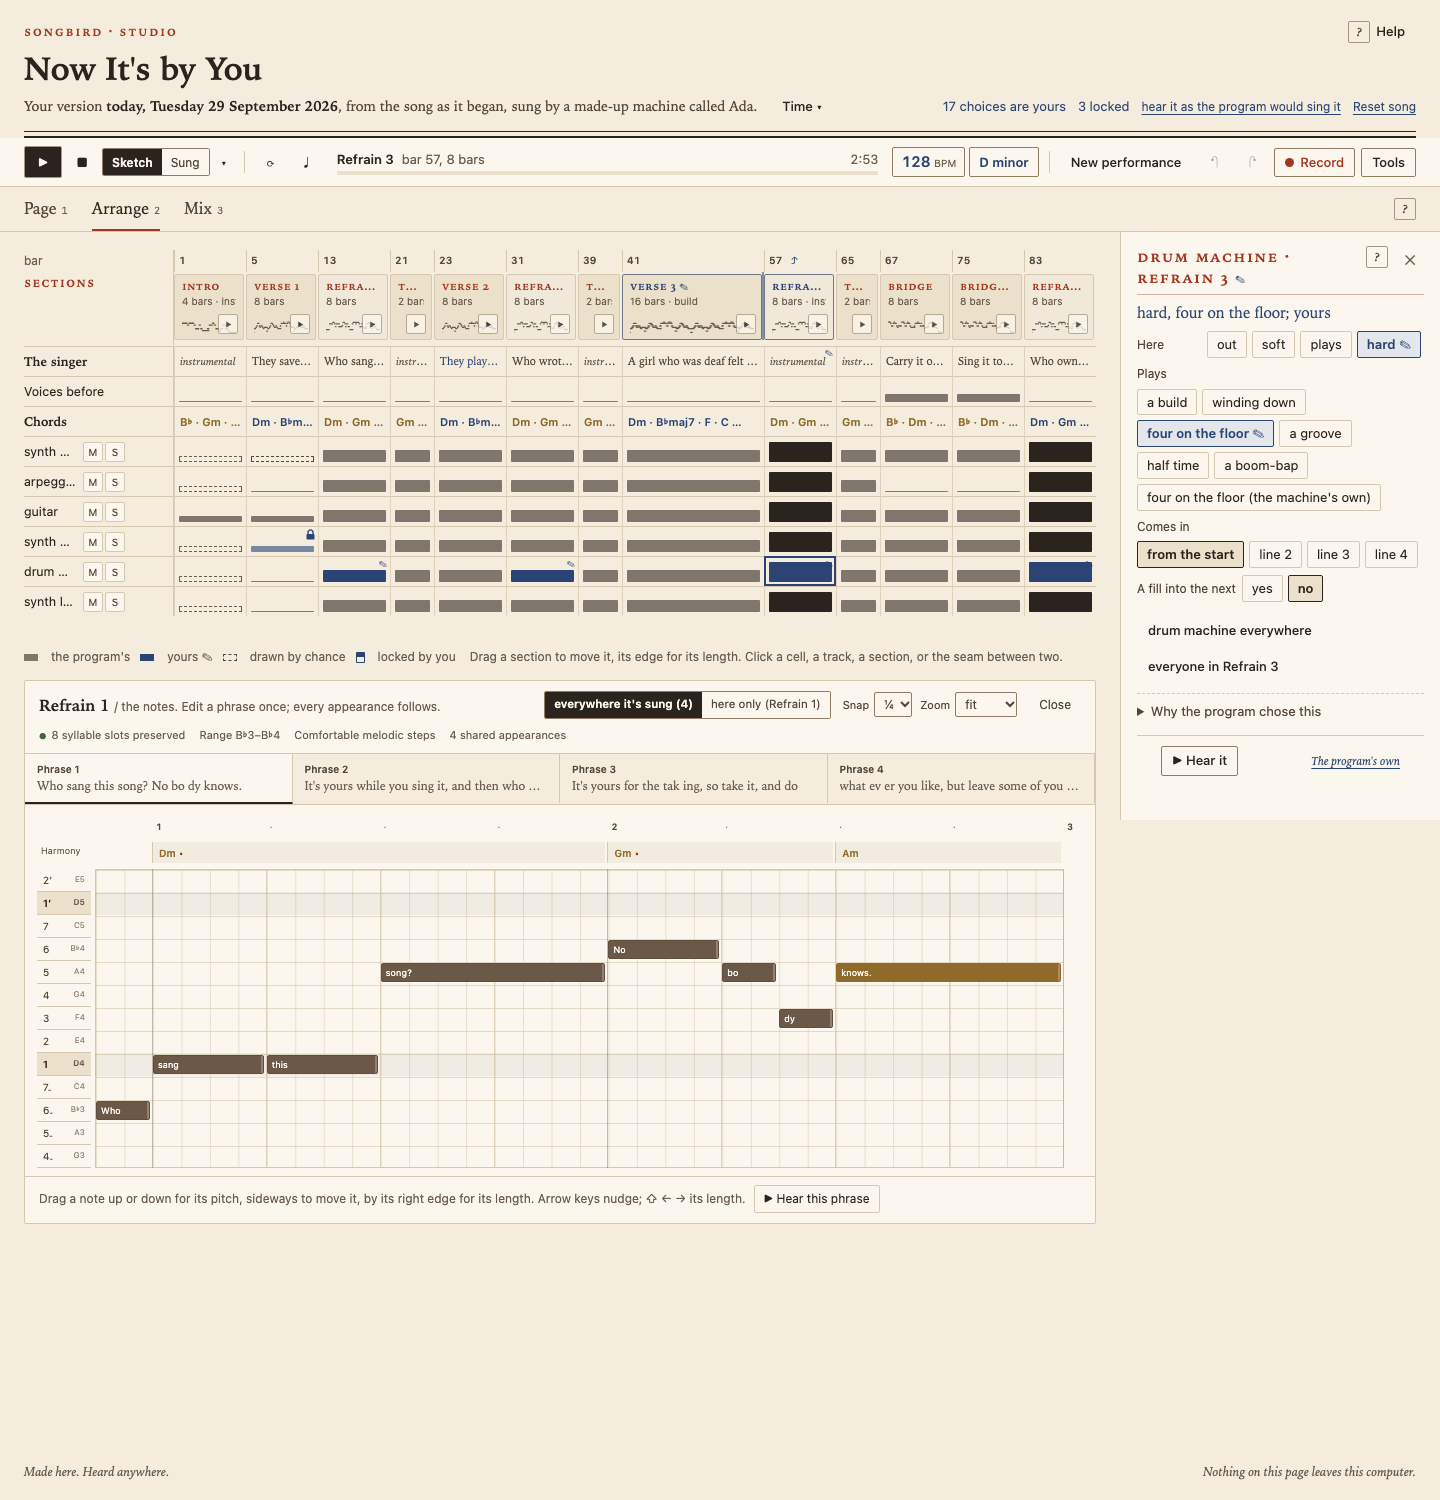
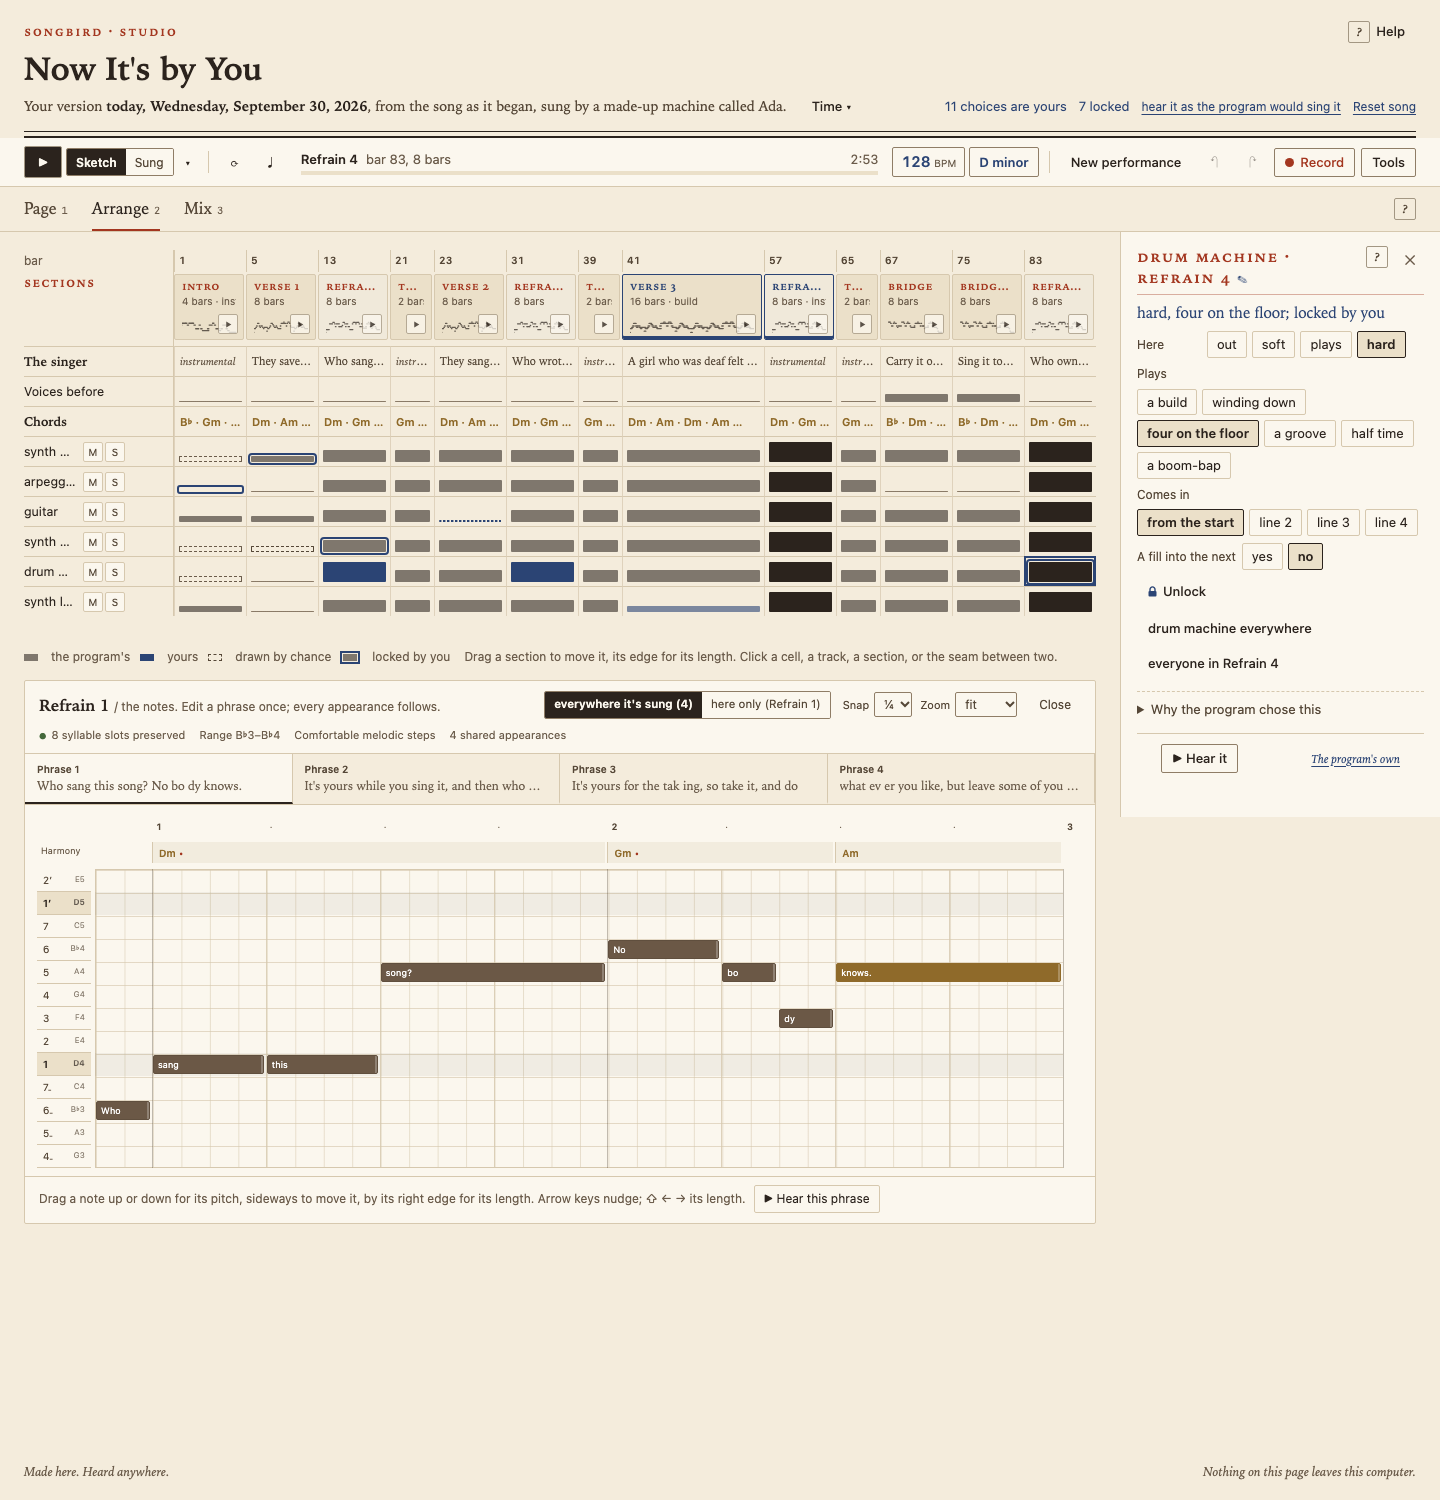
docs/design/studio-built-*.png again after the artist's list (one play button, the cells without marks, the date, a section's two ways in), and the list in docs/STUDIO-REDESIGN.md

diff --git a/docs/STUDIO-REDESIGN.md b/docs/STUDIO-REDESIGN.md
@@ -689,3 +689,28 @@ the stars out of a played section's words; the pan's words follow the drag.
 4. **Sketch or Sung follows the selection** (the sketch for a section, a phrase, a note; sung for the whole
    song) until the person flips it; then it stays as they set it for the visit.
 5. **The classic page stays at /classic** until signed off, and the packet's editor cap is 160 KB until then.
+
+**After the artist's first look (2026-09-30).** Her list, each done and seen in the built-in browser:
+
+- *A stray "null" under "Use this line"*: the words' hint was looked for again inside the section's editor
+  it had been moved out of, and not found on a redraw; the section keeps it now (tests/studio_author.test.cjs).
+- *From a section to editing it*: the section's column starts with **Edit its words** (the Page, scrolled to
+  it, its first line ready to write in the column) and **Edit its notes** (its piano roll under the grid);
+  a double-click opens a region's notes, as before, and the singer's cell's words. *Open the notes* and
+  *Write your own lines* are those two now; *Close the notes* stays while they're open.
+- *Play and Stop together*: one button, ▶ becoming ■ while anything plays or is being made (Space either
+  way), back to where it started; the separate ■ is gone.
+- *Static on stopping*: the sketch's voices (and the MIDI keyboard's backing) go through one bus that fades
+  to silence over 20 ms before its oscillators stop, and in over 5 ms; a preview's audio is stepped down over
+  24 ms before it pauses, up as it starts, and down and up around a jump. The piano page already faded (its
+  `silence()`).
+- *The pencil and the padlock covered the cells*: no glyph on a cell or a region. Yours is the second ink;
+  locked is the program's own drawing inside a line of the second ink; chance is dashed; a region of yours
+  has a second-ink edge and foot. The words (yours, locked by you, drawn by chance) are in every cell's label
+  and tooltip; the column and the masthead keep ✎ and the padlock, where there is room.
+- *Dates the American way*: "Wednesday, September 30, 2026" (`songbird/dates.py`), and the one date the
+  page formatted itself said in en-US whatever the viewer's locale.
+- *The drum machine in a breakdown* and *two four on the floors*: docs/ARRANGE.md.
+
+The pictures above (`studio-built-*.png`, but the phone's, which show neither) were taken again with the
+EDM brief's kind of version (synth folk at 128 in D minor, a 16-bar build, a played refrain, three locks).

diff --git a/docs/STUDIO.md b/docs/STUDIO.md
@@ -1382,8 +1382,8 @@ section's start (a line chosen, a build's bar, or the entrance chance drew). A c
 play (a section it hasn't got, a player its band hasn't got, a pattern its player doesn't play, a build at
 the song's end) is in `problems`, with why; one kept from the version before waits there, silent.
 
-**For the page.** A cell's energy bar is `value.level`; the second ink where `by` is `you` (a padlock where
-`locked`), a dashed outline where `chance`; its inspector shows `pattern_label`, the player's `patterns`,
+**For the page.** A cell's energy bar is `value.level`; the second ink where `by` is `you` (the program's own
+drawing inside a second-ink line where `locked`: no glyph on a cell), a dashed outline where `chance`; its inspector shows `pattern_label`, the player's `patterns`,
 `from` against the section's `lines`, `fill` where the player `fills`, the `program` value to go back to
 (send null), and `why` folded. A region's edge offers `bar_options`; *Who sings* is `sung` where
 `can_play`; *Moment* is `build` and the section's `options` (each a `style.*` path). Changing any of them is
